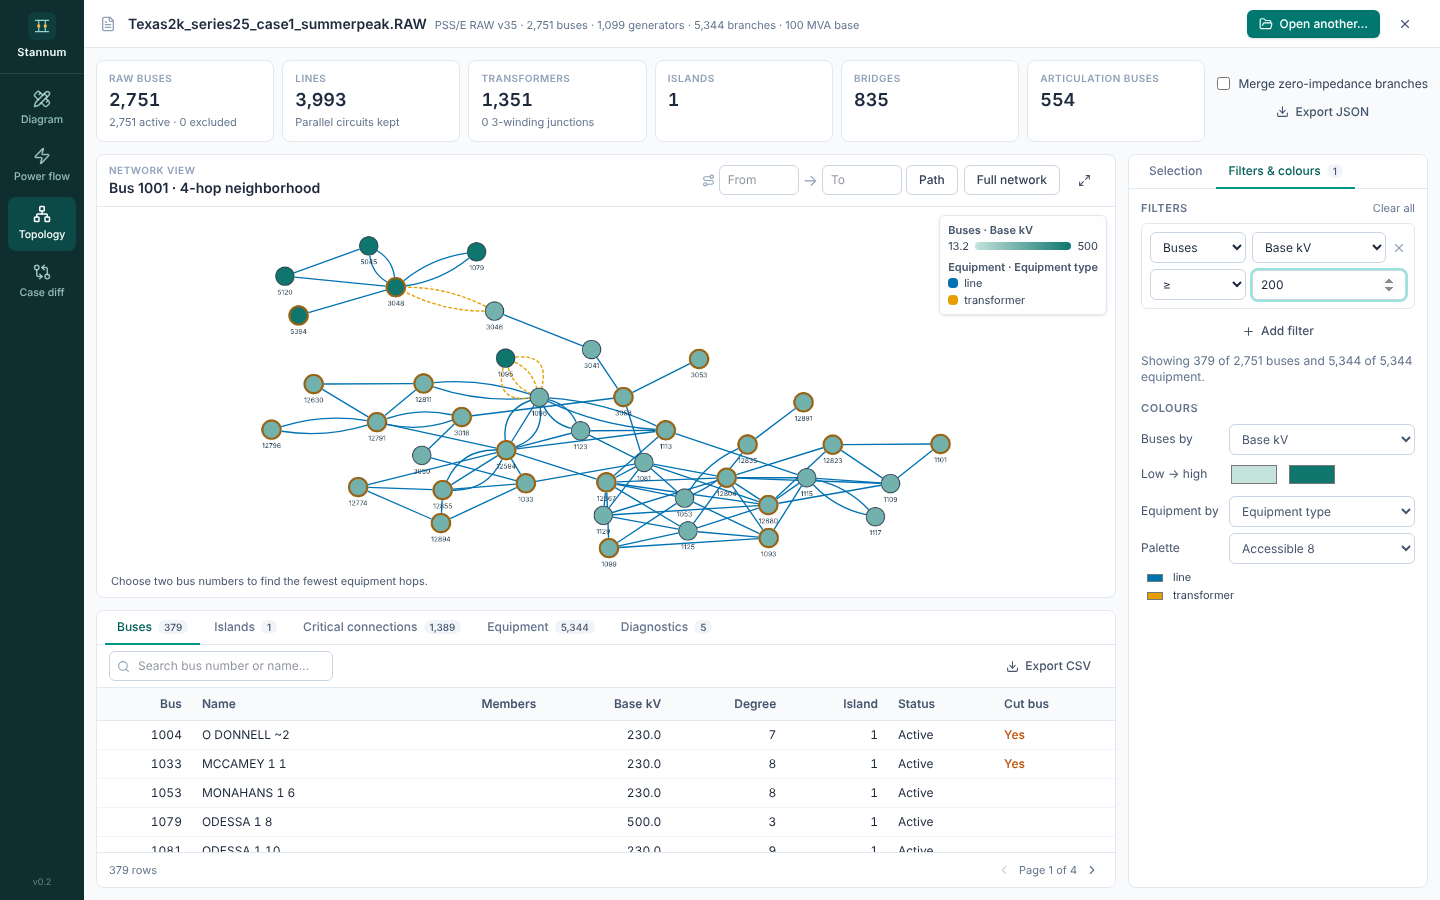
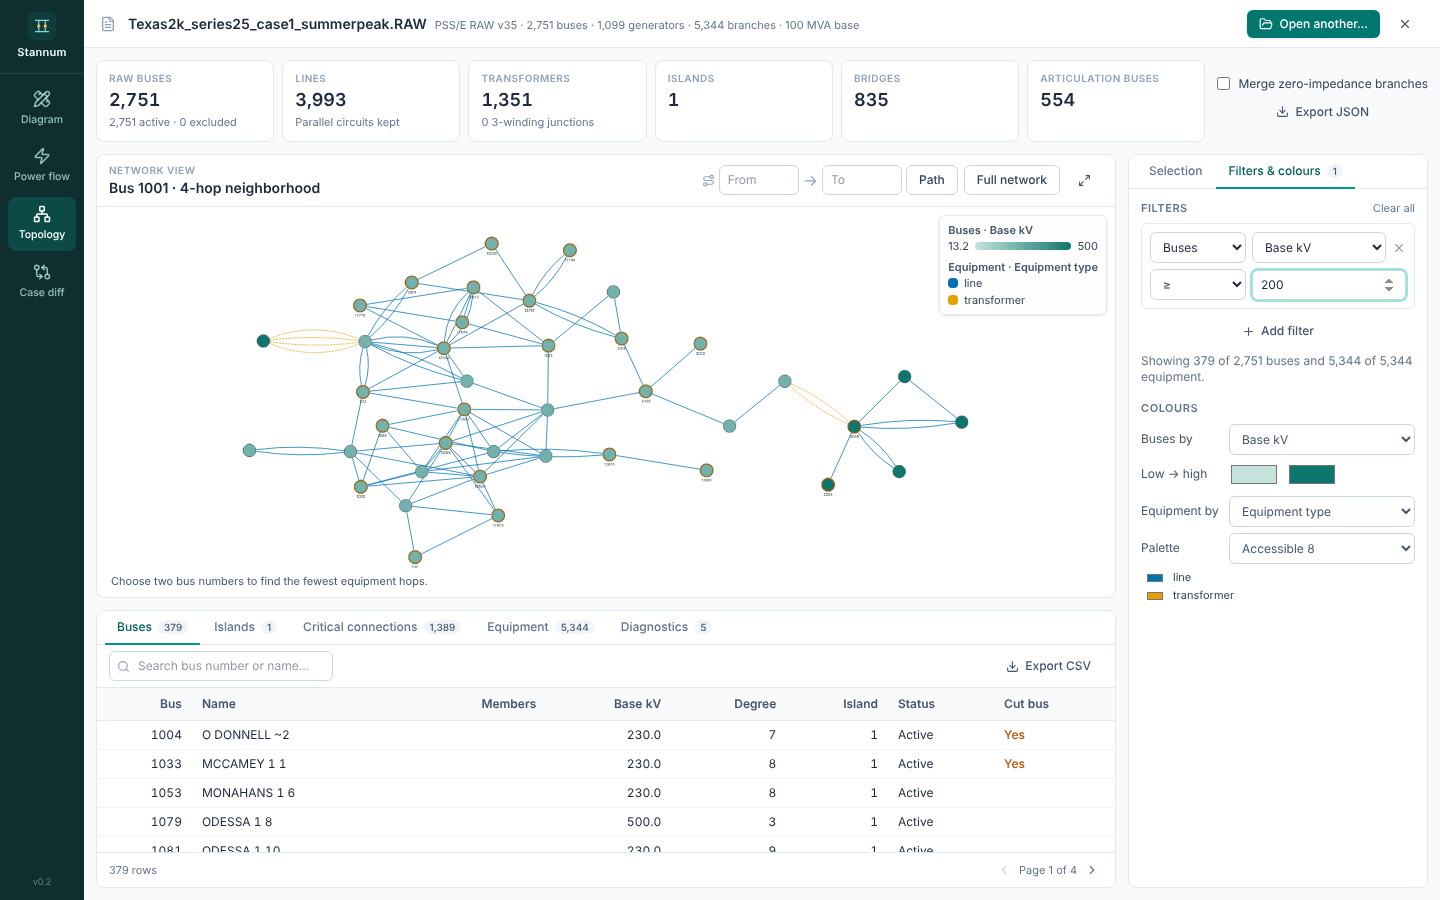
Topology: fCoSE spring layout with more room between buses
The graph used Cytoscape's basic cose layout (and a circle above 180
buses). It now uses fCoSE, a better spring layout, with longer springs
and stronger repulsion so buses stand apart, then spreads the result to
the panel's shape. It handles the full 500-bus display limit.

Claude-Session: https://claude.ai/code/session_01CAo3iy4cLUYfrutJspqNMi

Changed region(s): [[0.1562, 0.2489, 0.6875, 0.6222], [0.625, 0.4044, 0.6562, 0.4356], [0.375, 0.28, 0.4062, 0.3111]]

diff --git a/src/modules/topology/NetworkGraph.tsx b/src/modules/topology/NetworkGraph.tsx
@@ -1,5 +1,9 @@
 import { useEffect, useRef } from "react";
 import cytoscape, { type Core, type StylesheetJson } from "cytoscape";
+// @ts-expect-error: cytoscape-fcose ships no type declarations.
+import fcose from "cytoscape-fcose";
+
+cytoscape.use(fcose);
 import type { GraphData, TopoPath, TopologySnapshot } from "../../lib/analysis/types";
 import { nodeForBus } from "./viewModel";
 
@@ -38,7 +42,7 @@ const style: StylesheetJson = [
   { selector: "node.label-hidden", style: { label: "" } },
   // Colour rules from the Filters & colours panel. Path and selection still win.
   // Coloured buses are a little larger and outlined so pale colours still read.
-  { selector: "node[fill]", style: { "background-color": "data(fill)", width: 30, height: 30, "border-color": "#334155", "border-width": 1.5 } },
+  { selector: "node[fill]", style: { "background-color": "data(fill)", width: 38, height: 38, "border-color": "#334155", "border-width": 1.5 } },
   { selector: "node.junction[fill]", style: { width: 18, height: 18 } },
   { selector: "edge[stroke]", style: { "line-color": "data(stroke)", width: 2.2 } },
   // Under a colour rule, critical buses and bridges get a ring instead of a
@@ -50,14 +54,38 @@ const style: StylesheetJson = [
 ];
 
 /**
- * Force layouts come out roughly square, while the view is wide. Spread the
- * nodes horizontally (up to 2.5x) so the graph uses the whole panel.
+ * fCoSE spring layout with room between buses: springs a few bus-widths
+ * long, strong repulsion, and labels counted in each bus's footprint.
+ * The panel's aspect ratio is passed in so the result fills a wide view.
+ */
+function layoutFor(nodes: number): cytoscape.LayoutOptions {
+  return {
+    name: "fcose",
+    quality: nodes > 600 ? "draft" : "default",
+    animate: false,
+    randomize: true,
+    padding: 30,
+    nodeDimensionsIncludeLabels: true,
+    idealEdgeLength: () => 100,
+    nodeRepulsion: () => 25000,
+    edgeElasticity: () => 0.45,
+    nodeSeparation: 90,
+    gravity: 0.2,
+    gravityRange: 3.8,
+    numIter: 2500,
+    tile: true,
+    packComponents: true,
+  } as cytoscape.LayoutOptions;
+}
+
+/**
+ * Spring layouts come out roughly round, while the view is wide. Spread the
+ * buses horizontally (up to 2.2x) so the graph uses the whole panel.
  */
 function stretchToFit(cy: Core, el: HTMLElement) {
   const box = cy.nodes().boundingBox({});
   if (!box.w || !box.h || !el.clientWidth || !el.clientHeight) return;
-  const want = el.clientWidth / el.clientHeight;
-  const factor = Math.min(2.5, want / (box.w / box.h));
+  const factor = Math.min(2.2, el.clientWidth / el.clientHeight / (box.w / box.h));
   if (factor <= 1.05) return;
   const cx = box.x1 + box.w / 2;
   cy.nodes().positions((n) => ({ x: cx + (n.position("x") - cx) * factor, y: n.position("y") }));
@@ -129,7 +157,7 @@ export function NetworkGraph({
         })),
       ],
       style,
-      layout: { name: graph.nodes.length > 180 ? "circle" : "cose", animate: false, padding: 40, randomize: false } as cytoscape.LayoutOptions,
+      layout: layoutFor(graph.nodes.length),
       minZoom: 0.08,
       maxZoom: 4,
       wheelSensitivity: 0.25,
